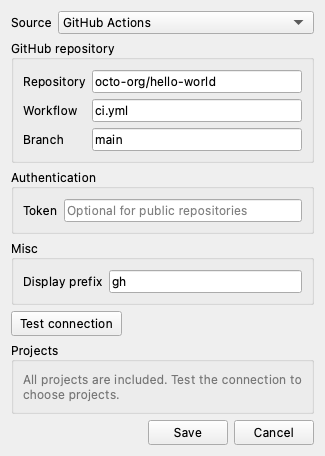
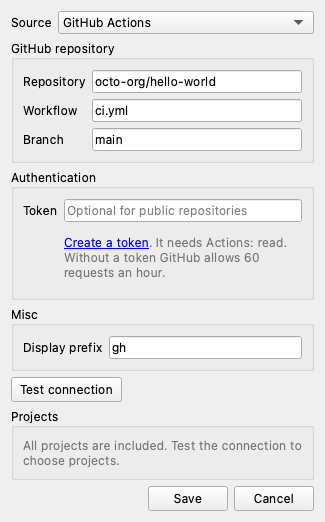
Document the sign-in, certificate and GitHub token changes; refresh server screenshots

diff --git a/buildnotifylib/ui/dialogs/server/github_form.py b/buildnotifylib/ui/dialogs/server/github_form.py
@@ -5,8 +5,10 @@ from PySide6.QtWidgets import QGroupBox, QLineEdit, QWidget
 
 from buildnotifylib.ui.widgets.forms import add_message, add_row, form_layout
 
-
-GITHUB_URL = re.compile(r"(?:https?://)?(?:www\.)?github\.com/([\w.-]+)/([\w.-]+?)(?:\.git)?(?:[/?#].*)?", re.IGNORECASE)
+GITHUB_URL = re.compile(
+    r"(?:https?://)?(?:www\.)?github\.com/([\w.-]+)/([\w.-]+?)(?:\.git)?(?:[/?#].*)?",
+    re.IGNORECASE,
+)
 
 
 def repository_name(text: str) -> str:
@@ -54,4 +56,5 @@ class GithubForm(QGroupBox):
         self.branch.setText(source.branch)
 
     def value(self) -> GithubSource:
-        return GithubSource(repository_name(self.repository.text()), self.workflow.text().strip(), self.branch.text().strip())
+        repository = repository_name(self.repository.text())
+        return GithubSource(repository, self.workflow.text().strip(), self.branch.text().strip())

diff --git a/buildnotifylib/ui/dialogs/server/dialog.py b/buildnotifylib/ui/dialogs/server/dialog.py
@@ -140,9 +140,7 @@ class ServerConfigurationDialog(QDialog):
     def refresh_certificate_row(self) -> None:
         unchecked = self.unverified_host is not None and self.skip_ssl_verification()
         if unchecked:
-            self.certificate_status.show_error(
-                self.tr("Certificate checks off for {}").format(self.source_host())
-            )
+            self.certificate_status.show_error(self.tr("Certificate checks off for {}").format(self.source_host()))
         else:
             self.certificate_status.clear_message()
         self.certificate_undo.setVisible(unchecked)

diff --git a/docs/usage.md b/docs/usage.md
@@ -12,7 +12,9 @@ On the first launch with no servers, the server dialog opens once. Until a serve
 
 Given a url pointing to cctray.xml, BuildNotify notifies you of any changes in the project status for selected projects in the CI server. The url must start with `http://` or `https://`. A url typed without one, such as `ci.example.org/cc.xml`, gets `https://`.
 
-Add a new server by clicking the `+` sign. Each server can use a username and password or a Bearer token. Both are kept in the system keyring.
+Add a new server by clicking the `+` sign. Under Sign in, choose `None`, `Username and password` or `Token` (a Bearer token, without the `Bearer` keyword). Credentials are kept in the system keyring. Without one, the dialog says so and asks you to install the `keyring` package.
+
+If a server's certificate isn't trusted, the dialog asks whether to connect anyway. Accepting turns off certificate checks for that server only. The dialog then shows `Certificate checks off for <host>` with a `Turn checks back on` button, and checks come back on if you change the host.
 
 Save works without testing the server first, so you can add one that is down, and all of its projects are included. Test connection shows how many projects the feed has, or a short error, and then lists them so you can untick the ones you don't want. The `All (N of M)` box shows a partial state while some are unticked, and ticking it sets every project the filter field currently shows. Projects added to the feed later are included automatically.
 
@@ -40,7 +42,7 @@ The sort order applies within each section of the tray menu. `Failing first`, th
 
 BuildNotify can also watch GitHub Actions without a cctray feed. In the server dialog, set Source to `GitHub Actions` and fill in:
 
-1. Repository: `owner/name`, such as `octo-org/hello-world`.
+1. Repository: `owner/name`, such as `octo-org/hello-world`, or a pasted `https://github.com/owner/name` URL.
 2. Workflow (optional): a workflow file such as `ci.yml`, or its name. Leave it empty for all workflows.
 3. Branch (optional): leave it empty for all branches.
 4. Token: a personal access token that can read Actions on the repository. A fine-grained token needs the "Actions: read" permission. Public repositories work without a token, but GitHub then allows only 60 requests an hour. The token is kept in the system keyring.
